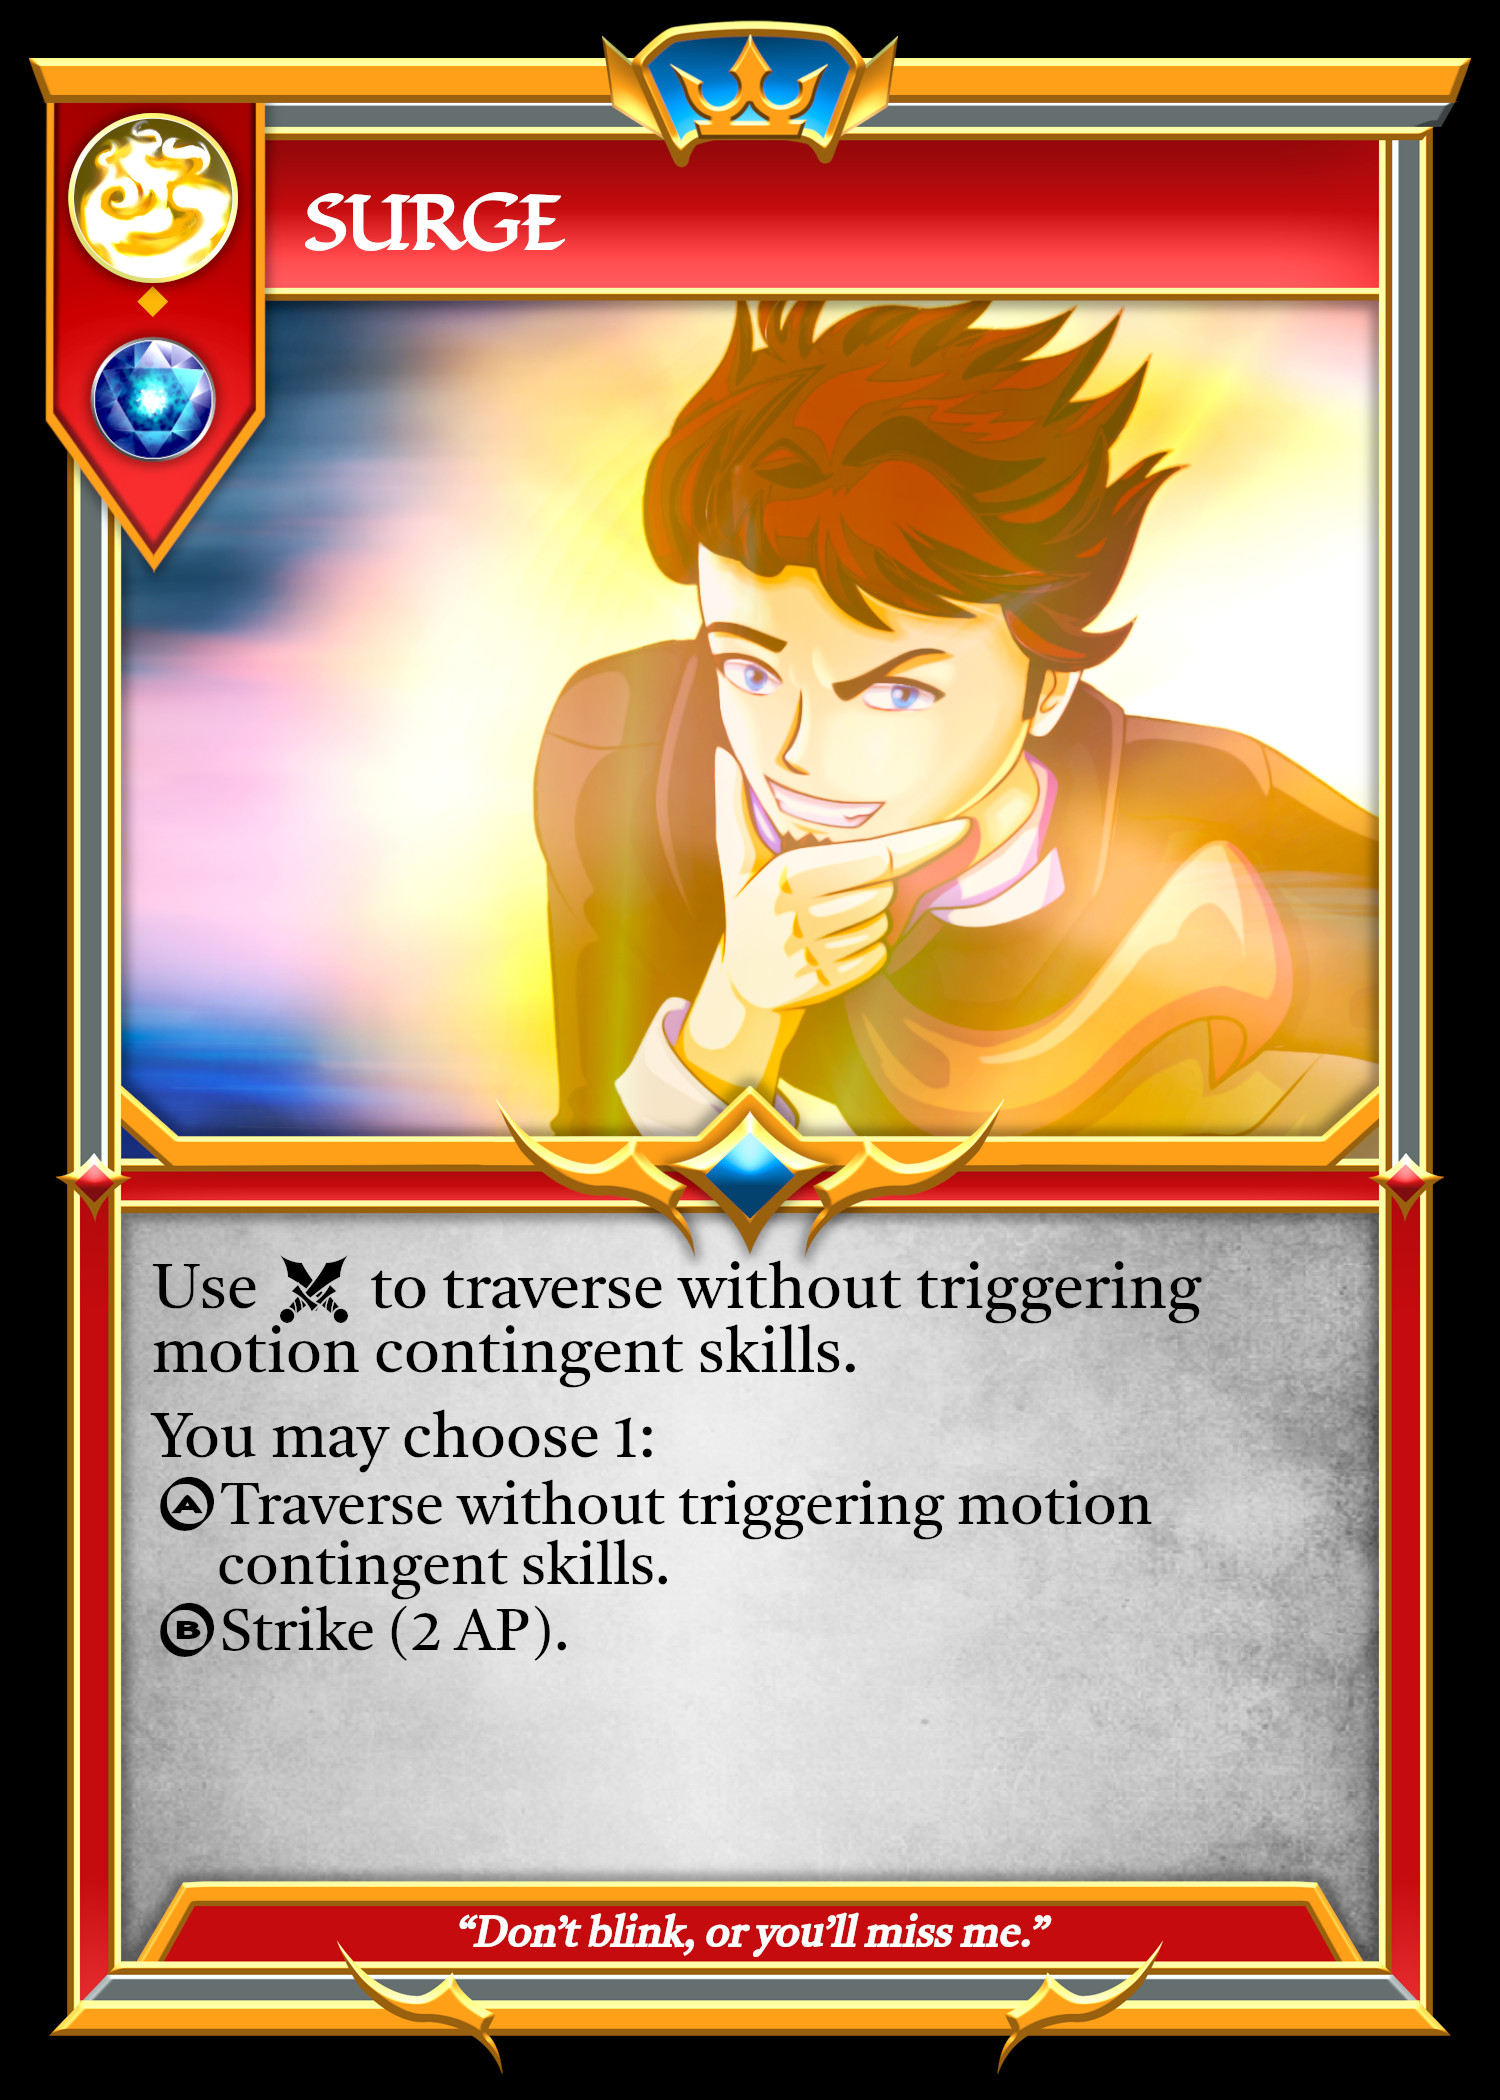
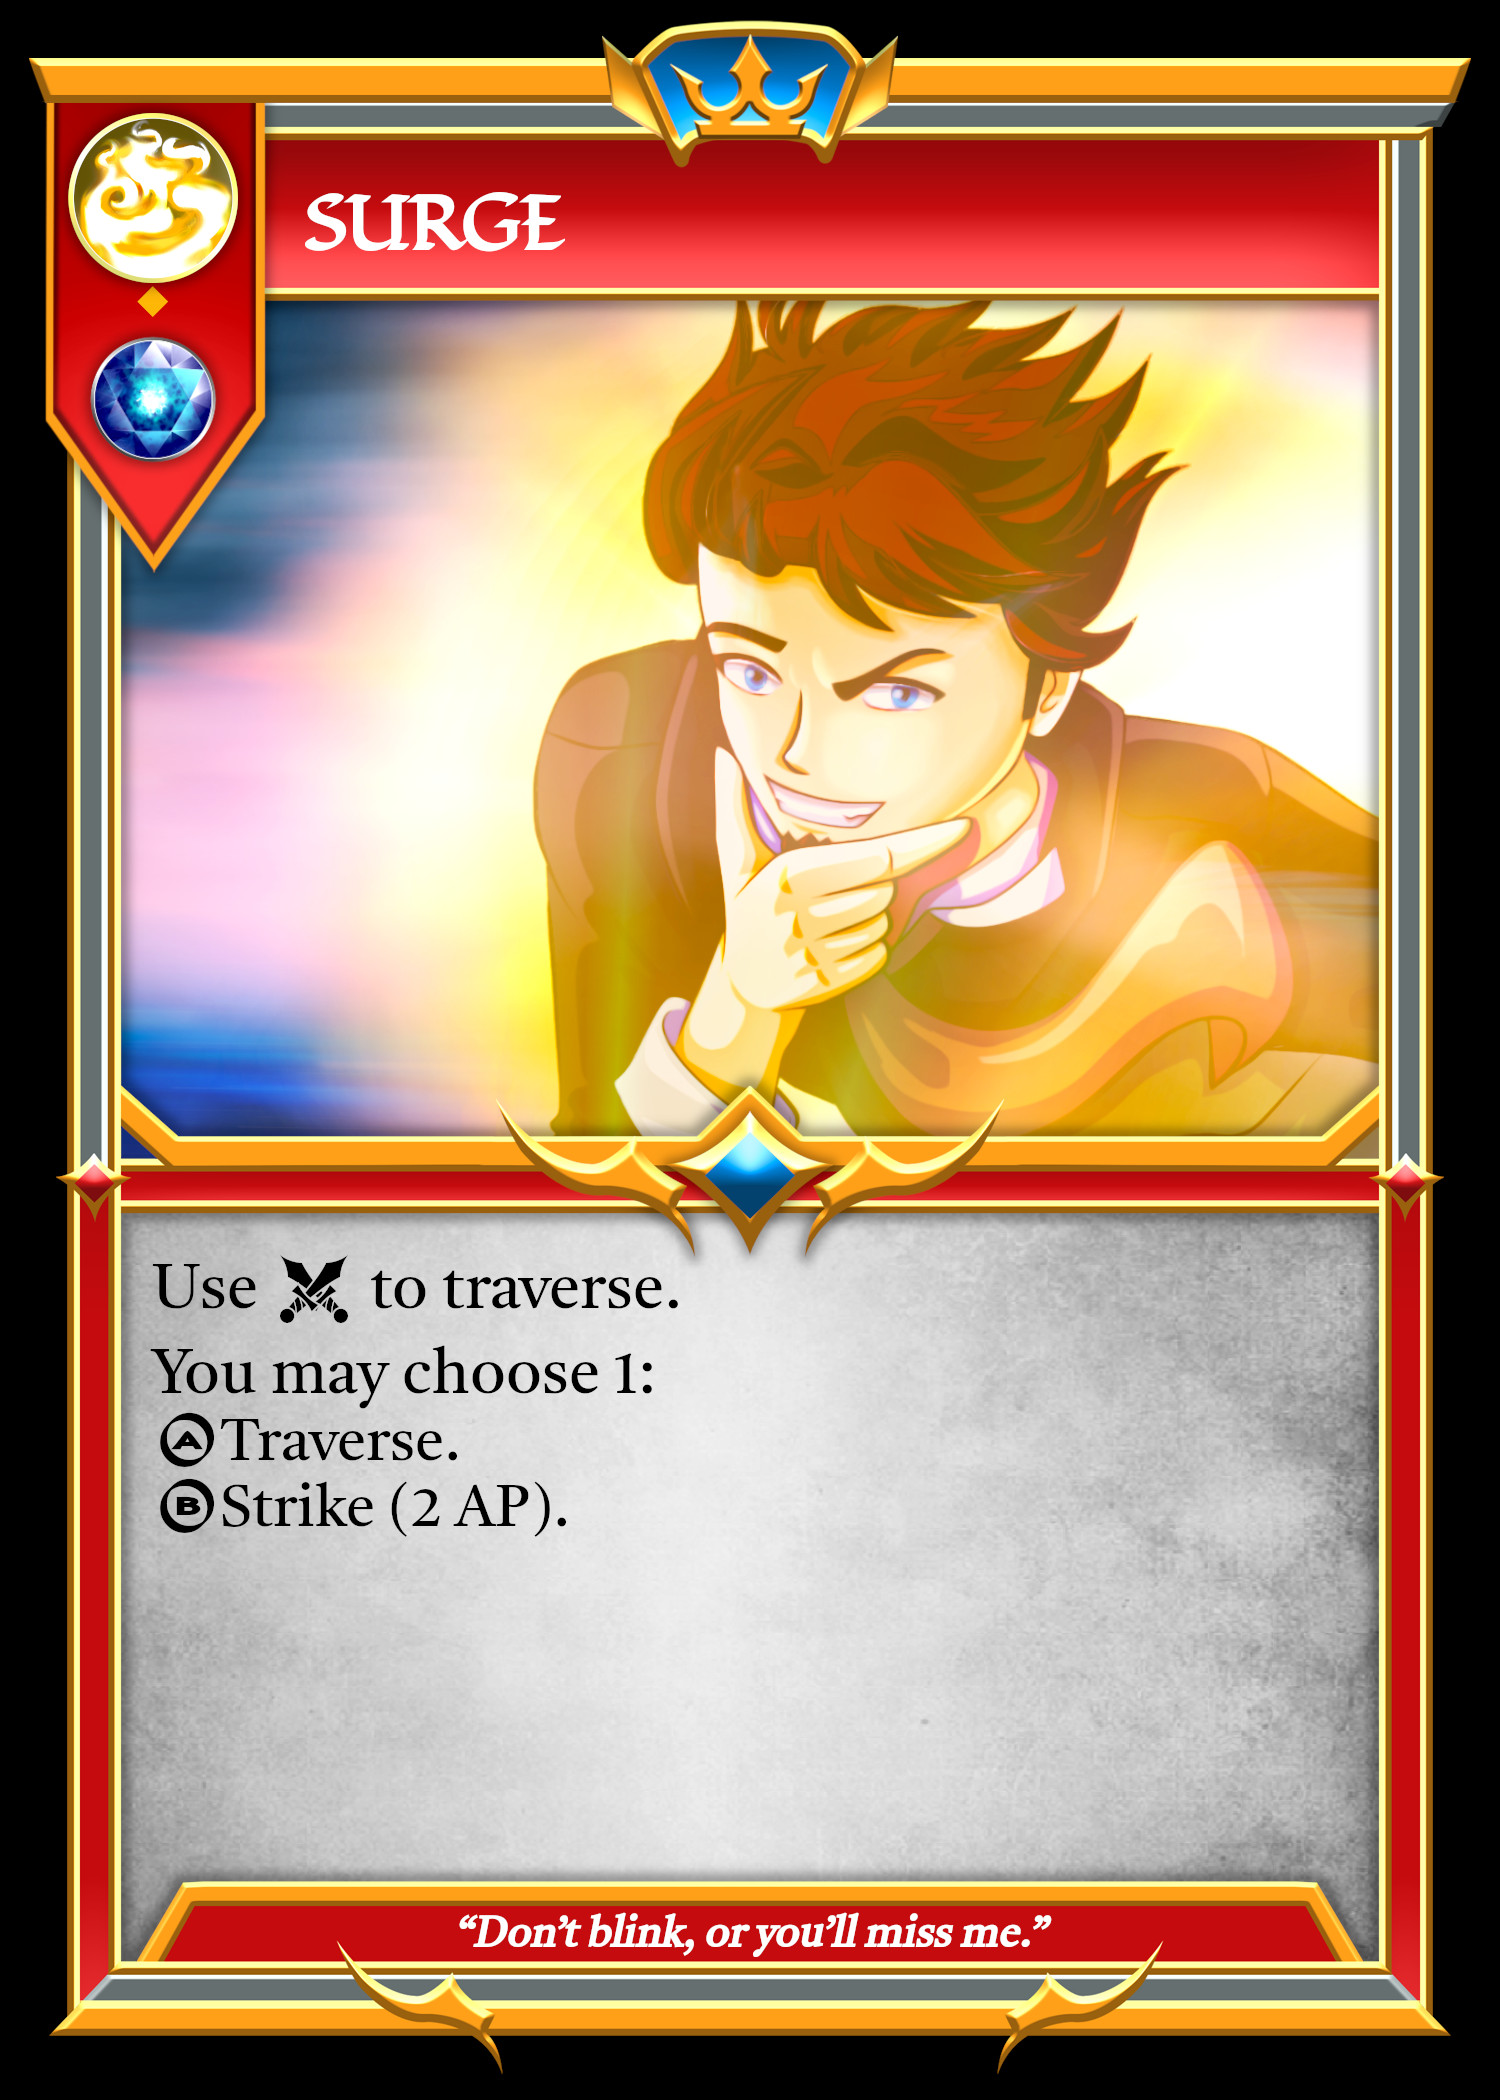
fixed search bug. nerfed surge: cannot bypass pitfall trap

Changed region(s): [[0.092, 0.5881, 0.7667, 0.8048], [0.6133, 0.5881, 0.7973, 0.65]]

diff --git a/src/components/modals/SearchCard.jsx b/src/components/modals/SearchCard.jsx
@@ -25,15 +25,17 @@ const SearchCard = (props) => {
 
   const { allBurstSkills } = useCardDatabase();
 
+  let newGameState = JSON.parse(JSON.stringify(localGameState));
+
   let repertoire = [];
-  let cardFloat = null;
+  let cardFloat = 0;
 
   if (props.details.avelhem) {
-    repertoire = [...localGameState[self].avelhemRepertoire];
-    cardFloat = localGameState[self].avelhemFloat;
+    repertoire = [...newGameState[self].avelhemRepertoire];
+    cardFloat = newGameState[self].avelhemFloat;
   } else {
-    repertoire = [...localGameState[self].skillRepertoire];
-    cardFloat = localGameState[self].skillFloat;
+    repertoire = [...newGameState[self].skillRepertoire];
+    cardFloat = newGameState[self].skillFloat;
   }
 
   //reverse display, since last card is top of deck
@@ -67,7 +69,6 @@ const SearchCard = (props) => {
   };
 
   const handleSelect = () => {
-    let newGameState = JSON.parse(JSON.stringify(localGameState));
     newGameState.currentResolution.pop();
 
     if (props.details.avelhem) {
@@ -134,6 +135,7 @@ const SearchCard = (props) => {
       }
 
       //shuffle repertoire, but retain floating order
+      cardFloat = newGameState[self].avelhemFloat;
       const floaters = newGameState[self].avelhemRepertoire.splice(
         newGameState[self].avelhemRepertoire.length - cardFloat,
         cardFloat
@@ -258,6 +260,7 @@ const SearchCard = (props) => {
       }
 
       //shuffle repertoire, but retain floating order
+      cardFloat = newGameState[self].skillFloat;
       const floaters = newGameState[self].skillRepertoire.splice(
         newGameState[self].skillRepertoire.length - cardFloat,
         cardFloat
@@ -278,23 +281,40 @@ const SearchCard = (props) => {
   };
 
   const handleSkip = () => {
-    let newGameState = JSON.parse(JSON.stringify(localGameState));
     newGameState.currentResolution.pop();
 
     //shuffle repertoire, but retain floating order
-    const floaters = newGameState[self].skillRepertoire.splice(
-      newGameState[self].skillRepertoire.length - cardFloat,
-      cardFloat
-    );
+    if (props.details.avelhem) {
+      cardFloat = newGameState[self].avelhemFloat;
+      const floaters = newGameState[self].avelhemRepertoire.splice(
+        newGameState[self].avelhemRepertoire.length - cardFloat,
+        cardFloat
+      );
 
-    newGameState[self].skillRepertoire = shuffleCards(
-      newGameState[self].skillRepertoire
-    );
+      newGameState[self].avelhemRepertoire = shuffleCards(
+        newGameState[self].avelhemRepertoire
+      );
 
-    newGameState[self].skillRepertoire = [
-      ...newGameState[self].skillRepertoire,
-      ...floaters,
-    ];
+      newGameState[self].avelhemRepertoire = [
+        ...newGameState[self].avelhemRepertoire,
+        ...floaters,
+      ];
+    } else {
+      cardFloat = newGameState[self].skillFloat;
+      const floaters = newGameState[self].skillRepertoire.splice(
+        newGameState[self].skillRepertoire.length - cardFloat,
+        cardFloat
+      );
+
+      newGameState[self].skillRepertoire = shuffleCards(
+        newGameState[self].skillRepertoire
+      );
+
+      newGameState[self].skillRepertoire = [
+        ...newGameState[self].skillRepertoire,
+        ...floaters,
+      ];
+    }
 
     newGameState.currentResolution.push({
       resolution: "Misc.",

diff --git a/src/components/modals/UnitInfo.jsx b/src/components/modals/UnitInfo.jsx
@@ -286,7 +286,7 @@ const UnitInfo = (props) => {
               ⬩You are immune to Frostbite and Burn.
             </p>
             <p className="unitInfo-text-desc unitInfo-text-last">
-              ⬩Your attacks against frostbitten enemies bypass Shield.
+              ⬩Your attacks against frostbitten enemies pierce Shield.
             </p>
           </>
         );
@@ -379,7 +379,7 @@ const UnitInfo = (props) => {
               up to 2 Sharpness.
             </p>
             <p className="unitInfo-text-desc unitInfo-text-last">
-              ⬩If you have 2 Sharpness, your strikes bypass Shield.
+              ⬩If you have 2 Sharpness, your strikes pierce Shield.
             </p>
           </>
         );

diff --git a/src/components/modals/SelectCustomChoice.jsx b/src/components/modals/SelectCustomChoice.jsx
@@ -190,7 +190,7 @@ const SelectCustomChoice = (props) => {
     case "Sow and Reap":
       canFirstChoice = canSowAndReapBlast(unit);
       canSecondChoice = canSowAndReapStrike(unit);
-      ChoiceFirstMessage = "Blast (bypass Shield) an adjacent rooted enemy.";
+      ChoiceFirstMessage = "Blast (pierce Shield) an adjacent rooted enemy.";
       ChoiceSecondMessage = "Prompt an adjacent ally to strike a rooted enemy.";
       break;
 

diff --git a/src/pages/Rules.jsx b/src/pages/Rules.jsx
@@ -1982,7 +1982,7 @@ export default function Rules() {
                     <li>
                       Their Penetrator talent increases the AP of their attacks
                       for every Sharpness they possess; with 2 Sharpness, their
-                      strikes can bypass Shield.
+                      strikes can pierce Shield.
                     </li>
                   </ul>
                 </li>

diff --git a/src/hooks/useRecurringEffects.jsx b/src/hooks/useRecurringEffects.jsx
@@ -3008,7 +3008,7 @@ export const useRecurringEffects = () => {
     const moverEnemy = mover.player === "host" ? "guest" : "host";
     if (
       newGameState[moverEnemy].skillHand.length > 0 &&
-      !["AerialImpetusAlly", "AirDash", "Surge"].includes(special) &&
+      !["AerialImpetusAlly"].includes(special) &&
       triggerMotion(mover, special)
     ) {
       newGameState.currentResolution.push({

diff --git a/src/components/boardComponents/Piece.css b/src/components/boardComponents/Piece.css
@@ -86,7 +86,6 @@
   display: flex;
   position: absolute;
   font-size: small;
-  /* z-index: 400; */
 }
 
 .pieceOption:hover {
